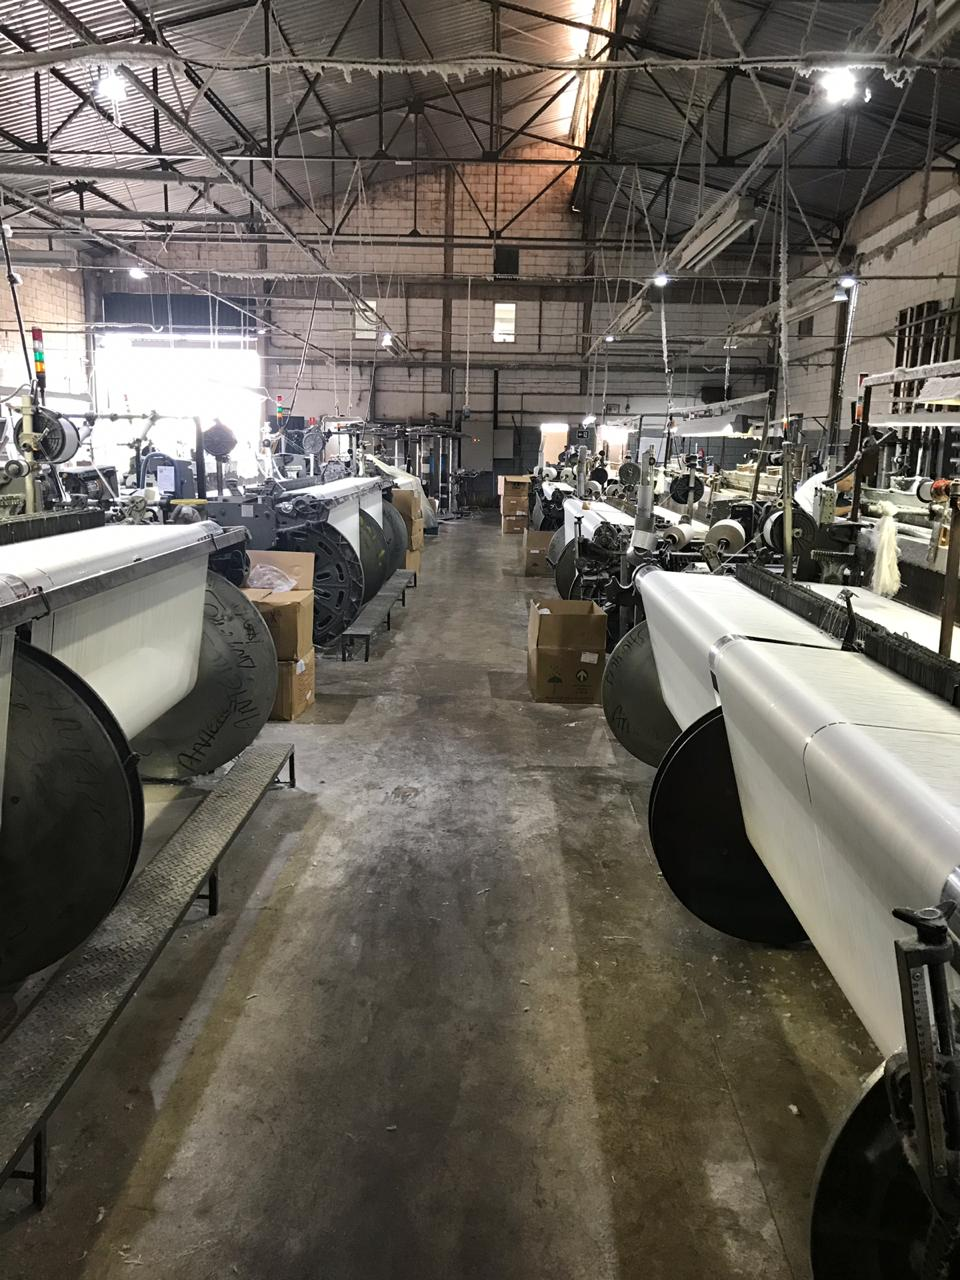
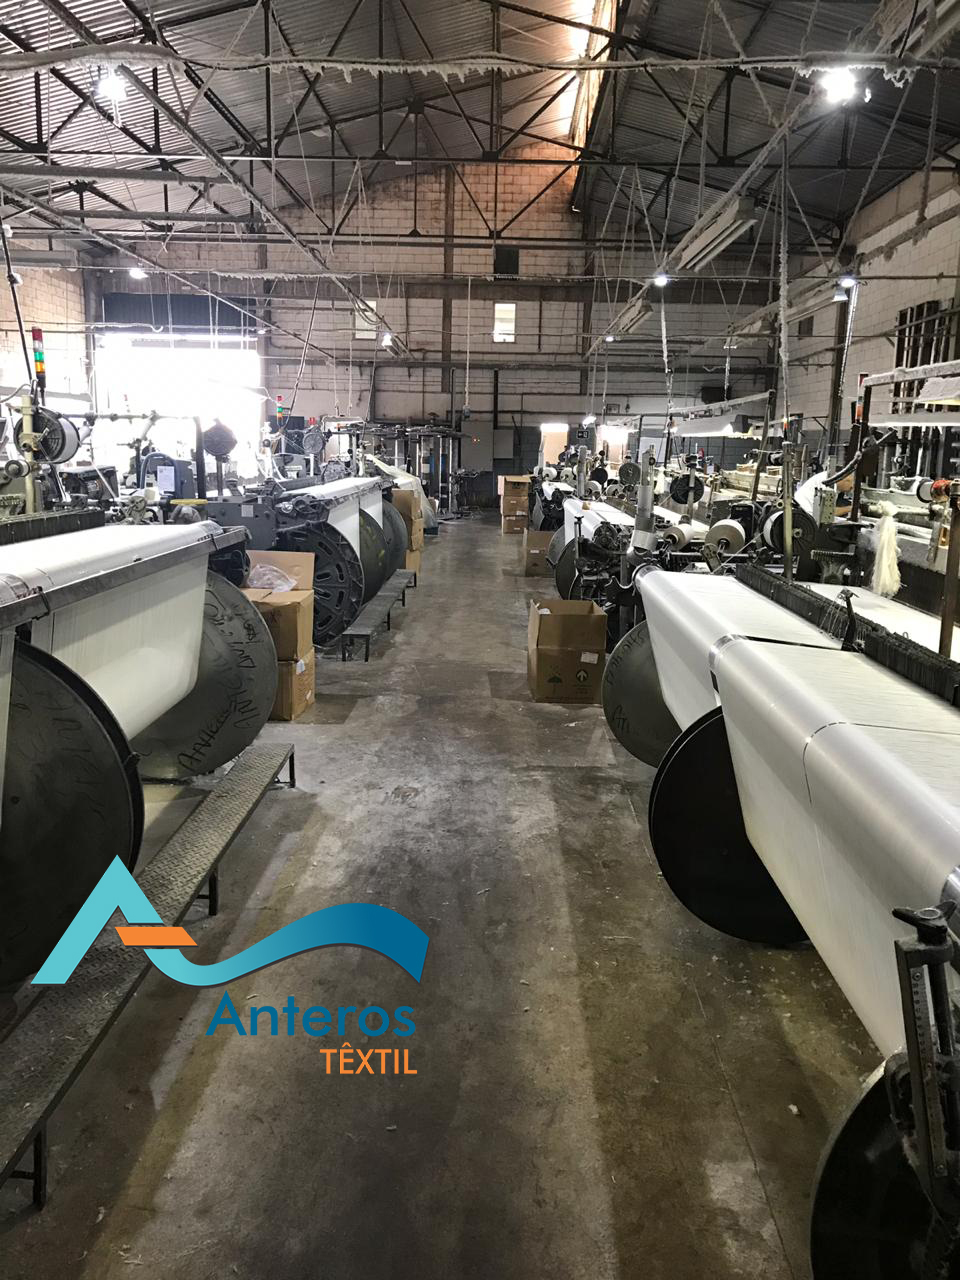
alterações imagens e texto sobre

Changed region(s): [[0.0312, 0.6562, 0.4688, 0.8438]]

diff --git a/index.html b/index.html
@@ -145,9 +145,10 @@ About Section
                     e otimizações ao setor têxtil.
                 </p>
                 <p class="about-text">
-                    Com tais pilares, a empresa observou oportunidades dentro do mercado e hoje atua as levando para todo o Brasil,
-                    com profissionais dedicados e especializados, teares de alta qualidade e um rígido controle de matéria-prima,
-                    tudo para garantir que seus clientes possam confiar de olhos fechados em seus serviços e produtos.
+                    Com tais pilares a empresa observou oportunidades dentro do mercado e hoje atua  na prestação de mão
+                    de obra especializada em facção de tecidos planos, com profissionais dedicados e especializados,
+                    teares de alta qualidade e um rígido controle de matéria-prima, tudo para garantir que seus clientes
+                    possam confiar de olhos fechados em seus serviços e produtos.
                 </p>
             </div>
         </div>
@@ -442,7 +443,7 @@ Contact Section
                 <div class="info">
                     <div class="info-details">
                         <i class="fa fa-map-marker"></i>
-                        <p><a href="https://goo.gl/maps/ocGBcMFmjxBdZQ2D8">Av Nossa Sra. de Fátima, 2700<br>SL 21 - Vila Israel - Americana/SP</a></p>
+                        <p><a href="https://goo.gl/maps/ocGBcMFmjxBdZQ2D8">Av Nossa Sra. de Fátima, 2700<br>SL 14 - Vila Israel - Americana/SP</a></p>
                     </div>
 
                     <div class="info-details">
